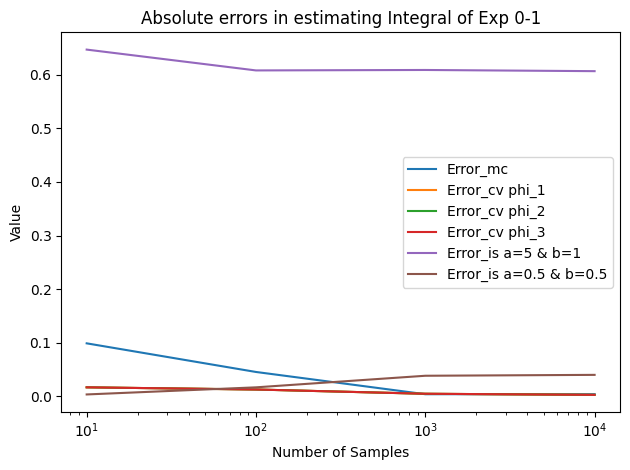
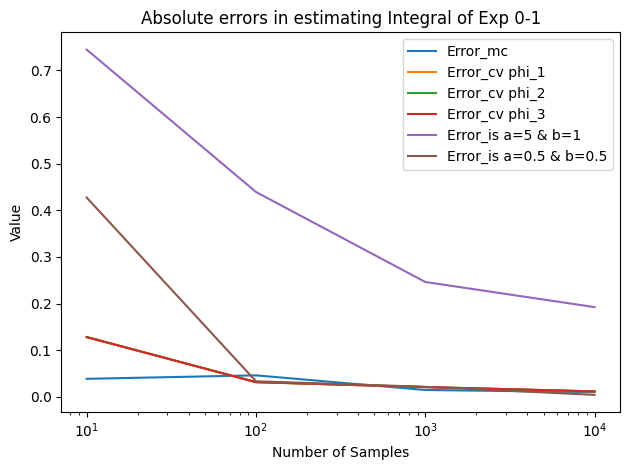
Correction of the beta distribution

diff --git a/Exercise 1/assignment_3.py b/Exercise 1/assignment_3.py
@@ -95,7 +95,7 @@ def run_importance_sampling(
     # TODO: run the importance sampling method and return the absolute
     # errors of the resulting estimations.
     # ====================================================================
-    
+
     distr_1 = cp.Beta(5, 1)
     distr_2 = cp.Beta(0.5, 0.5)
 
@@ -108,7 +108,7 @@ def run_importance_sampling(
     for i, d in enumerate(distr):
         for j, n in enumerate(Ns):
             samples = d.sample(size=n, seed=seed)
-            evaluated_values = np.array([f(xi) for xi in samples])
+            evaluated_values = np.array([f(xi)/d.pdf(xi) for xi in samples])
             I_f[i, j] = (1/n) * np.sum(evaluated_values)
 
     error = np.abs(I_f - target_I_f)
@@ -125,7 +125,7 @@ if __name__ == "__main__":
     #value_to_for = f(10)
     sample_size = [10, 100, 1000, 10000]
     error_per_s = np.zeros((len(sample_size), 2))
-    seed = 100
+    seed = 42
 
     # ====================================================================
 
@@ -143,6 +143,7 @@ if __name__ == "__main__":
     # Importance Sampling
 
     error_is = run_importance_sampling(Ns=sample_size, seed=seed+2)
+    print(error_is)
         
     # ====================================================================
 
